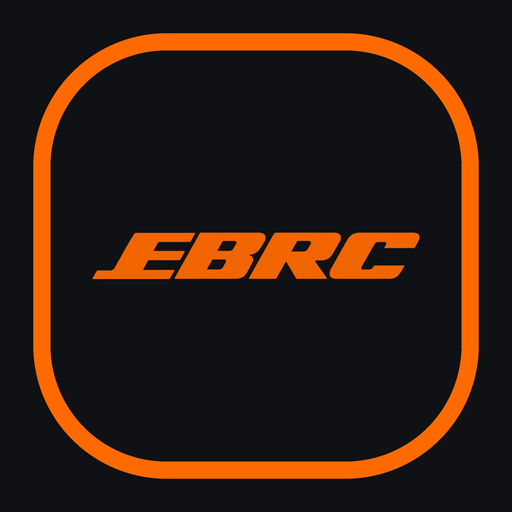
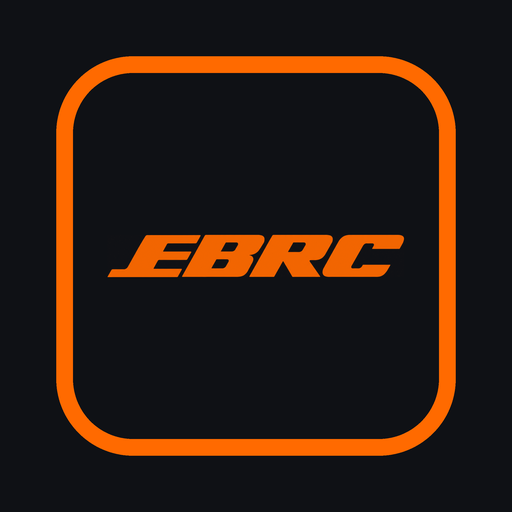
Icône Android : cadre en retrait, coins adaptés

Changed region(s): [[0.0625, 0.0625, 0.9375, 0.9375], [0.1875, 0.4375, 0.8125, 0.5625]]

diff --git a/sw.js b/sw.js
@@ -1,6 +1,6 @@
 // Garde l'interface en cache pour un démarrage instantané (les données viennent toujours du tableau).
 // Changer VERSION à chaque mise en ligne pour forcer la mise à jour sur les téléphones.
-const VERSION = "pc-v26";
+const VERSION = "pc-v27";
 const SHELL = [
   "./", "index.html", "style.css", "theme.js", "app.js", "config.js", "manifest.webmanifest",
   "vendor/xlsx.full.min.js",
